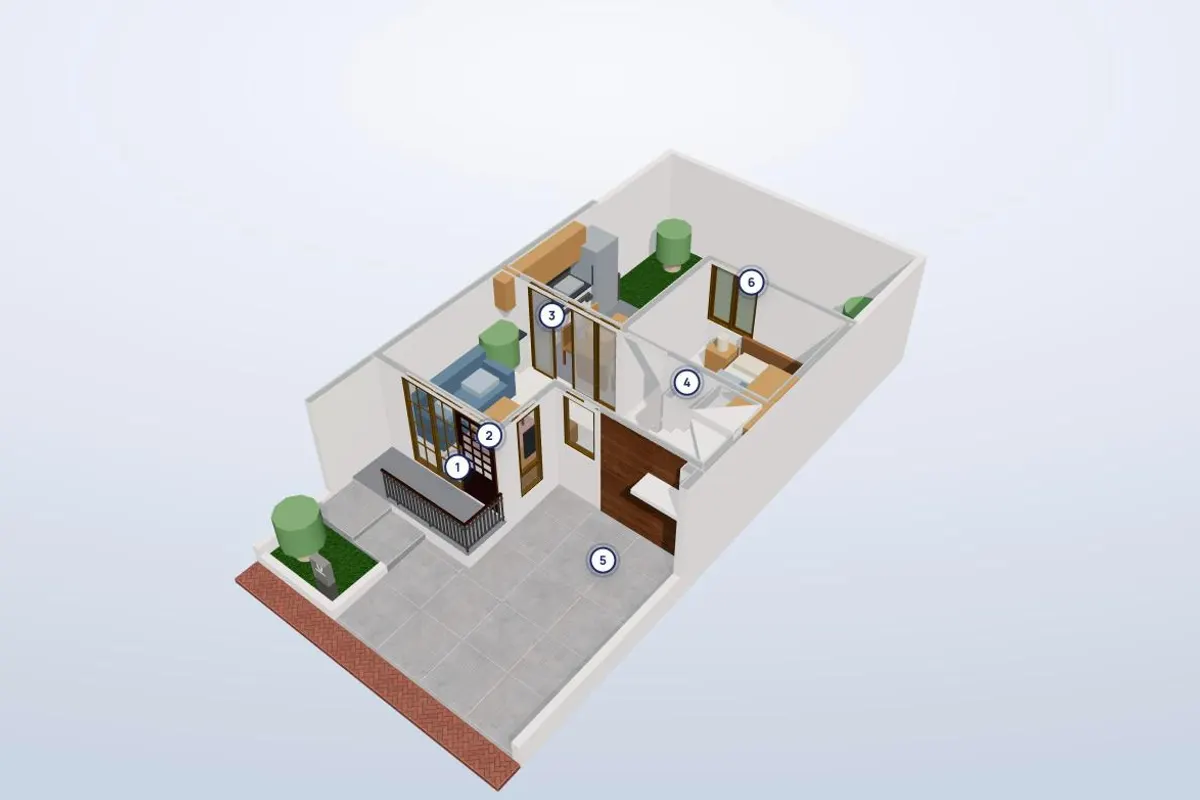
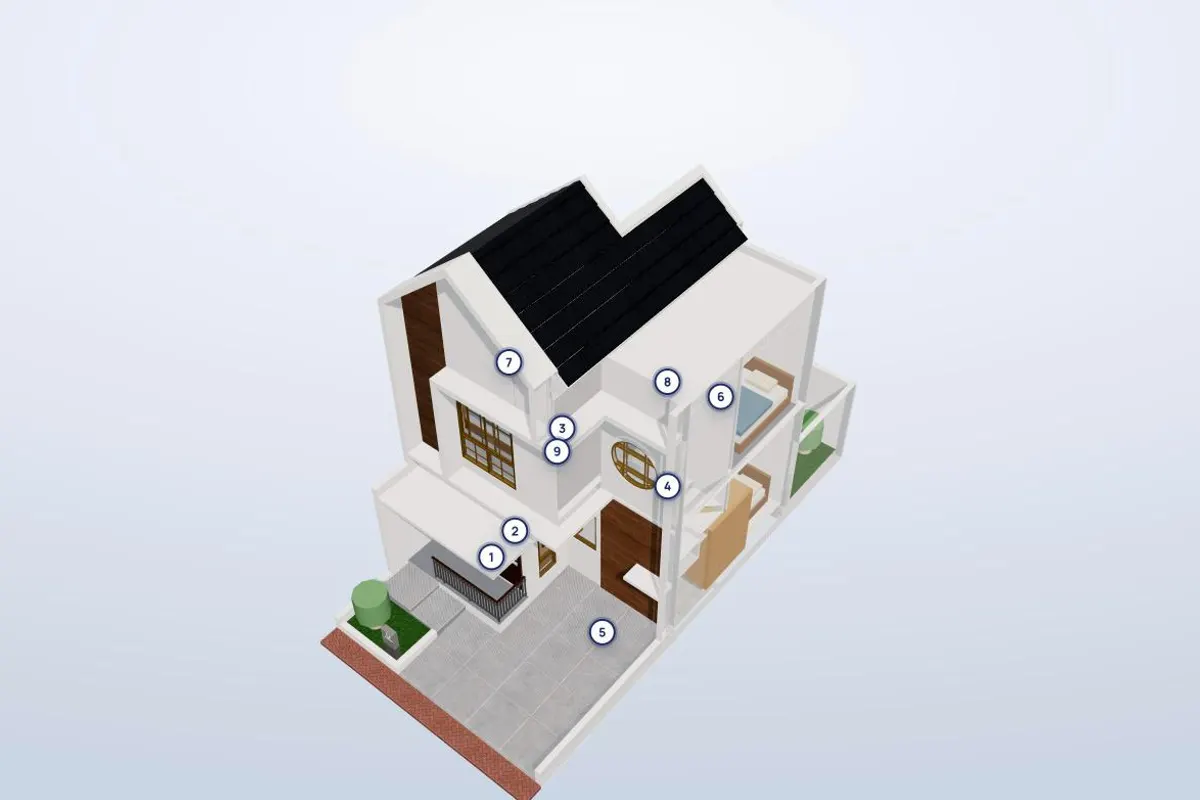
Dollhouse: tampilan awal Rumah utuh dengan semua nomor titik; poster kartu dibuat ulang

Changed region(s): [[0.185, 0.1875, 0.7708, 1.0]]

diff --git a/kawa-living/3d/dollhouse/dollhouse.js b/kawa-living/3d/dollhouse/dollhouse.js
@@ -255,7 +255,7 @@ export async function mulai(wadah, tipe, opsi = {}) {
 
   /* lantai aktif & pemotongan */
   const daftarLantai = (data.lantai || []).map(l => l.nomor).sort();
-  [...daftarLantai.map(n => [n, 'Lantai ' + n]), [0, 'Rumah utuh']].forEach(([n, teks]) => {
+  [[0, 'Rumah utuh'], ...daftarLantai.map(n => [n, 'Lantai ' + n])].forEach(([n, teks]) => {
     const b = el('button', null, teks); b.type = 'button'; b.dataset.lantai = n; b.setAttribute('aria-pressed', 'false');
     b.addEventListener('click', () => setLantai(n)); lantaiEl.appendChild(b);
   });
@@ -277,13 +277,14 @@ export async function mulai(wadah, tipe, opsi = {}) {
   }
 
   /* kamera awal */
-  // Arah pandang dari depan-kanan atas; jaraknya dipaskan supaya seluruh denah (lantai 1 terpotong 2,2 m) masuk bingkai,
+  // Tampilan awal: rumah utuh (atap terpasang, dinding samping dekat kamera tembus pandang) dengan semua titik.
+  // Arah pandang dari depan-kanan atas; jaraknya dipaskan supaya seluruh rumah masuk bingkai,
   // termasuk saat wadahnya kecil/tegak (kartu Detail Unit di HP).
-  const lebar = bb.max.x - bb.min.x, dalam = bb.max.z - bb.min.z;
-  setLantai(1, false);
+  const lebar = bb.max.x - bb.min.x, dalam = bb.max.z - bb.min.z, tinggi = bb.max.y - bb.min.y;
+  setLantai(0, false);
   {
     const asp = Math.max(0.5, (wadah.clientWidth || 3) / (wadah.clientHeight || 2));
-    const r = 0.5 * Math.hypot(lebar, dalam, 3.5);
+    const r = 0.5 * Math.hypot(lebar, dalam, tinggi);
     const jarak = Math.min(kontrol.maxDistance, r / Math.sin(THREE.MathUtils.degToRad(kamera.fov / 2)) / Math.min(1, asp) * 0.96);
     const arah = new THREE.Vector3(lebar * 0.9, 8.5, dalam * 0.55).normalize();
     kamera.position.copy(kontrol.target).addScaledVector(arah, jarak);
@@ -345,7 +346,8 @@ export async function mulai(wadah, tipe, opsi = {}) {
     }
     renderer.render(scene, kamera);
     for (const p of pins) {
-      if (p.ruang.lantai !== lantaiAktif) { p.el.classList.remove('tampak'); continue; }
+      // Rumah utuh (0): semua titik tampil; per lantai: hanya titik lantai itu; mode kamera (-1): tanpa titik.
+      if (lantaiAktif !== 0 && p.ruang.lantai !== lantaiAktif) { p.el.classList.remove('tampak'); continue; }
       v.copy(p.pos).project(kamera);
       if (v.z > 1) { p.el.classList.remove('tampak'); continue; }
       p.el.style.transform = `translate(${((v.x + 1) / 2 * lebarPx).toFixed(1)}px, ${((1 - v.y) / 2 * tinggiPx).toFixed(1)}px) translate(-50%,-50%)`;

diff --git a/kawa-living/index.html b/kawa-living/index.html
@@ -1245,7 +1245,7 @@
         if (memuat) return;
         if (!adaWebGL()) { ket.textContent = 'Browser ini belum mendukung tampilan 3D.'; tombol.disabled = true; return; }
         matikan(); memuat = true; ket.textContent = 'Memuat 3D…'; panel.classList.add('buka');
-        (modul || (modul = import('./3d/dollhouse/dollhouse.js?v=20261026b')))
+        (modul || (modul = import('./3d/dollhouse/dollhouse.js?v=20261026c')))
           .then(function (m) { return m.mulai(wadah, panel.dataset.dollhouse); })
           .then(function (v) {
             memuat = false; ket.textContent = teksAwal;

diff --git a/kawa-living/3d/dollhouse/index.html b/kawa-living/3d/dollhouse/index.html
@@ -37,7 +37,7 @@
     <p>Putar dengan seret, cubit untuk zoom, ketuk titik untuk melihat ruangan.</p>
   </div>
   <script type="module">
-    import { mulai } from './dollhouse.js?v=20261026b';
+    import { mulai } from './dollhouse.js?v=20261026c';
     const q = new URLSearchParams(location.search);
     const kamera = Number(q.get('kamera') || 0);
     if (kamera > 0) document.body.classList.add('kamera');
